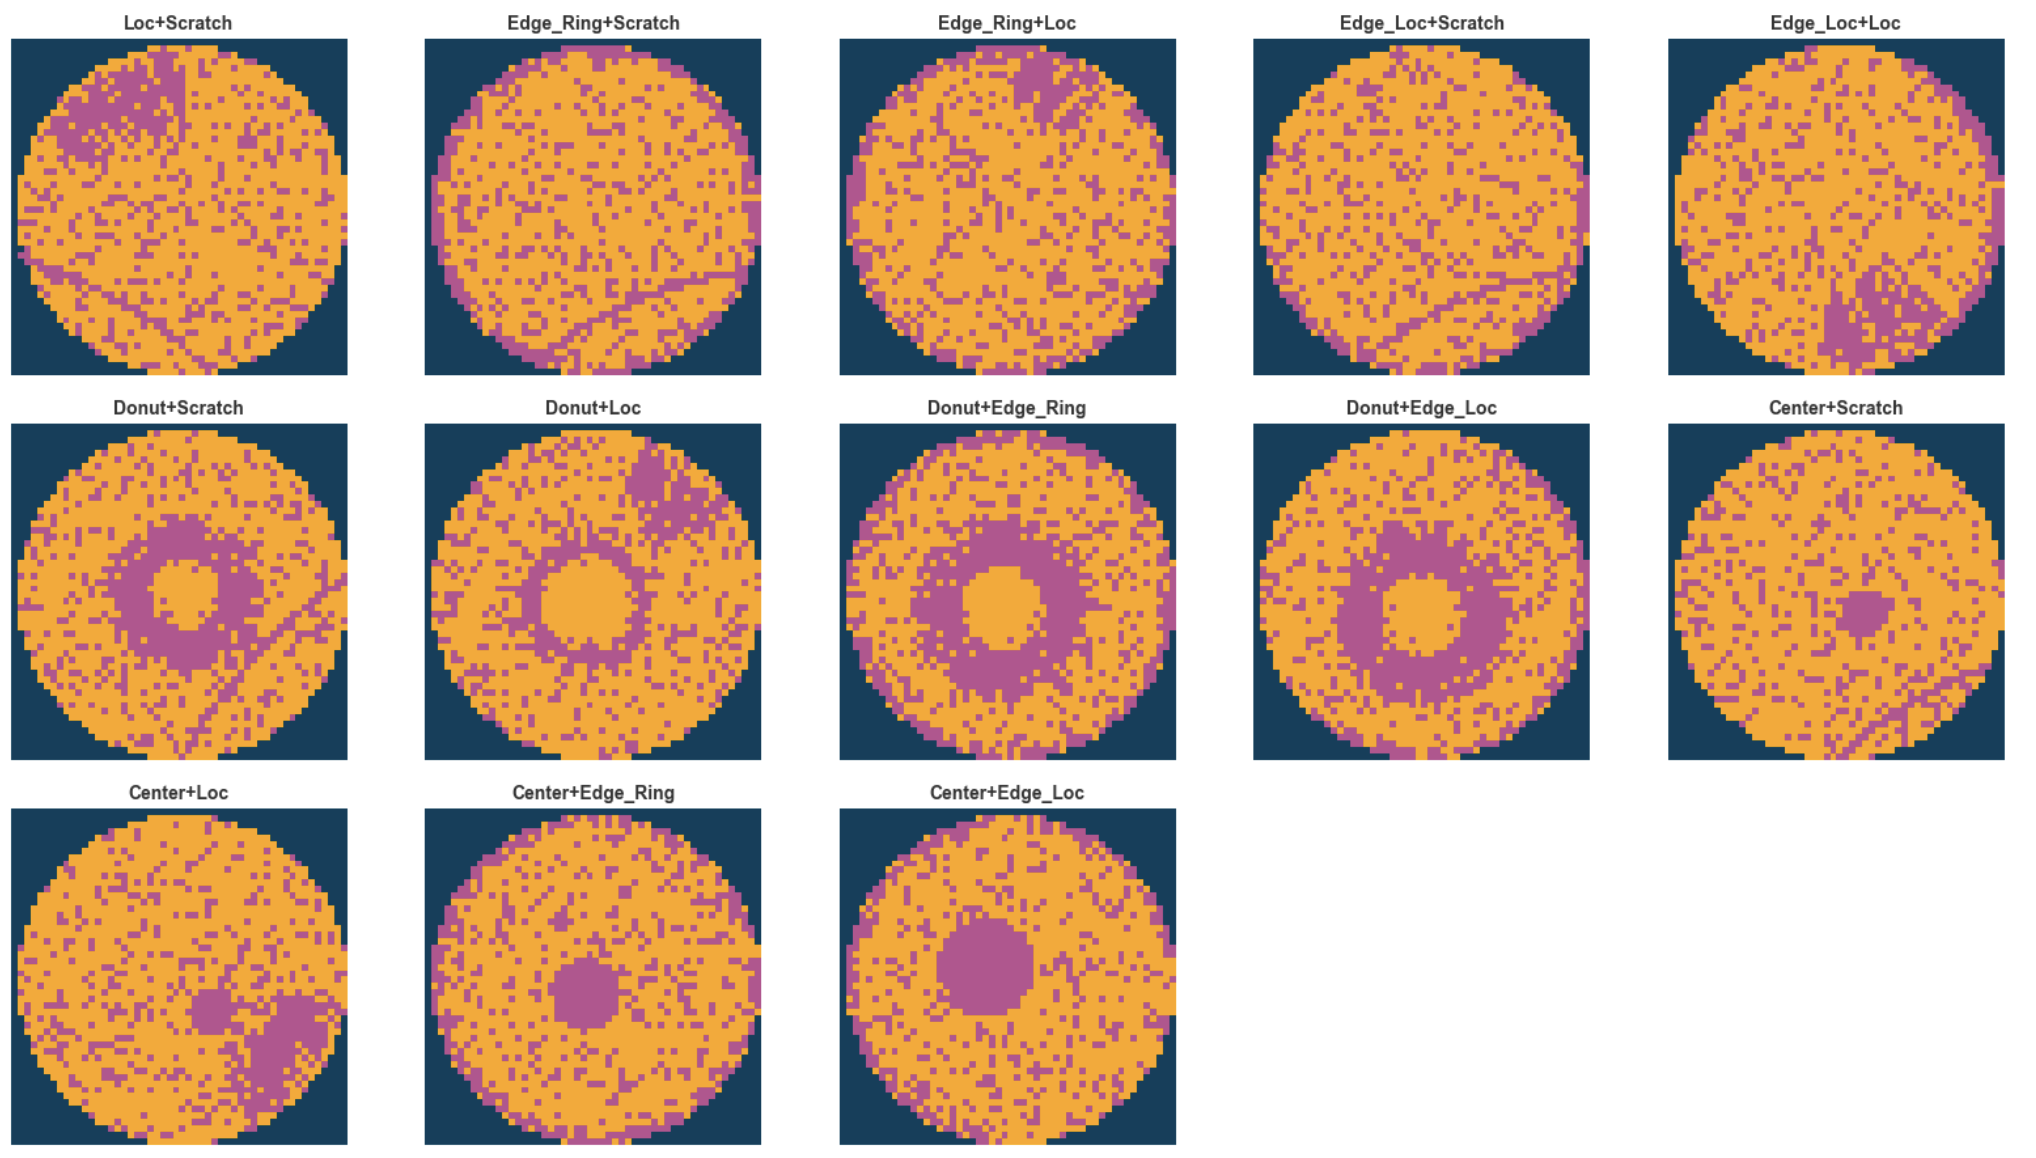
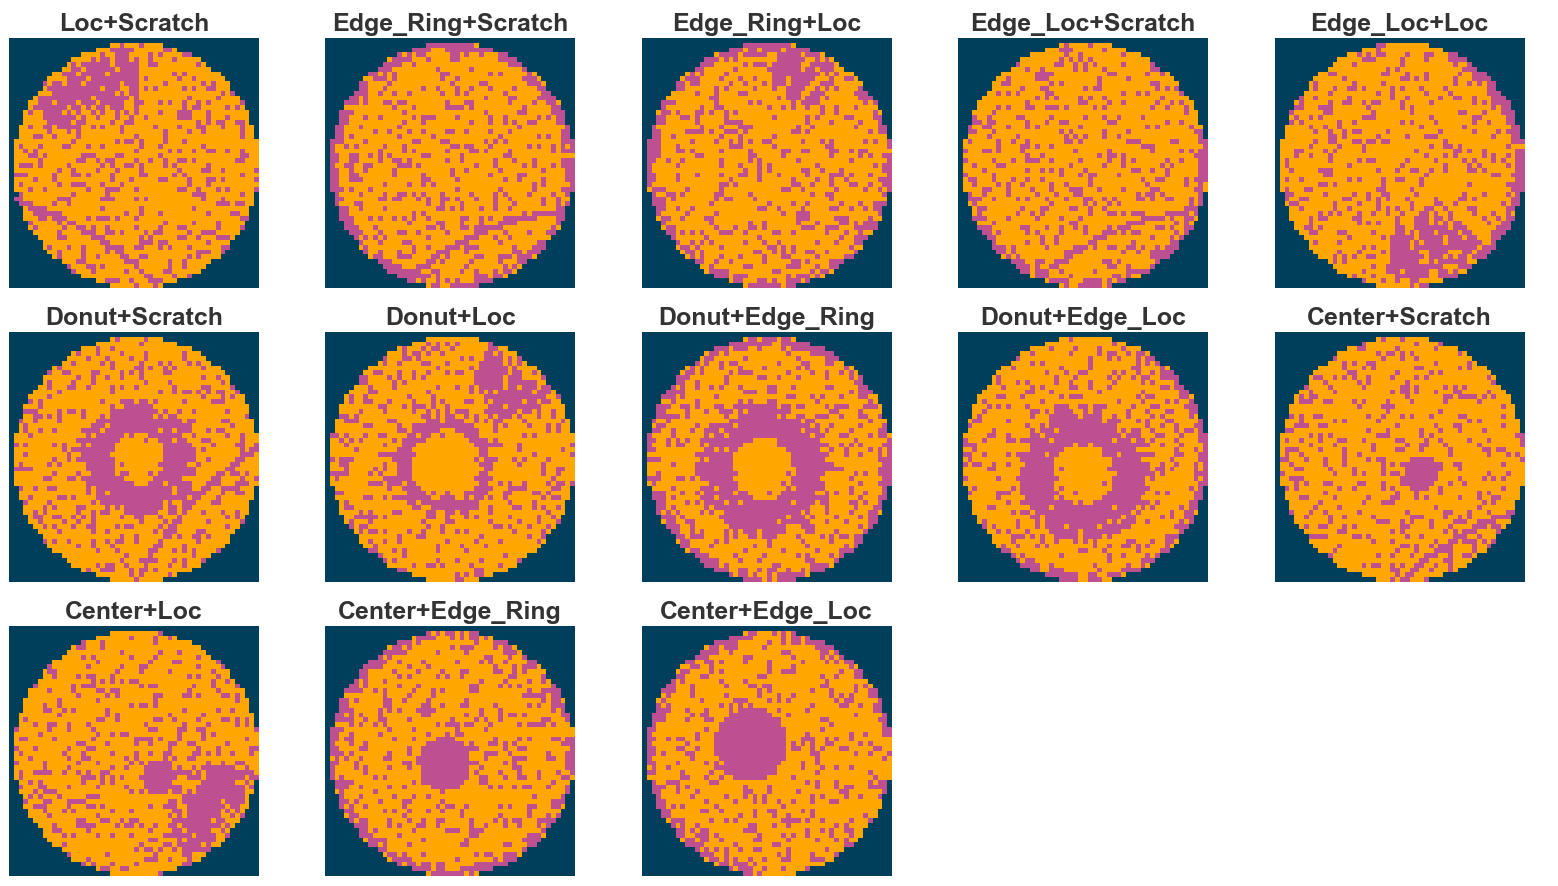
wip

diff --git a/slides/wm811k/docs/presentation.html b/slides/wm811k/docs/presentation.html
@@ -193,9 +193,17 @@ Deloitte AI Team
 <section id="two-types-of-multi-defect-patterns" class="slide level2">
 <h2>Two Types of Multi-Defect Patterns</h2>
 
-
-
 <img data-src="images/two-defects.png" class="quarto-figure quarto-figure-center r-stretch"></section>
+<section id="three-types-of-multi-defect-patterns" class="slide level2">
+<h2>Three Types of Multi-Defect Patterns</h2>
+
+<img data-src="images/three-defects.png" class="quarto-figure quarto-figure-center r-stretch"></section>
+<section id="four-types-of-multi-defect-patterns" class="slide level2">
+<h2>Four Types of Multi-Defect Patterns</h2>
+
+
+
+<img data-src="images/four-defects.png" class="quarto-figure quarto-figure-center r-stretch"></section>
     </div>
   <div class="quarto-auto-generated-content" style="display: none;">
 <div class="footer footer-default">
